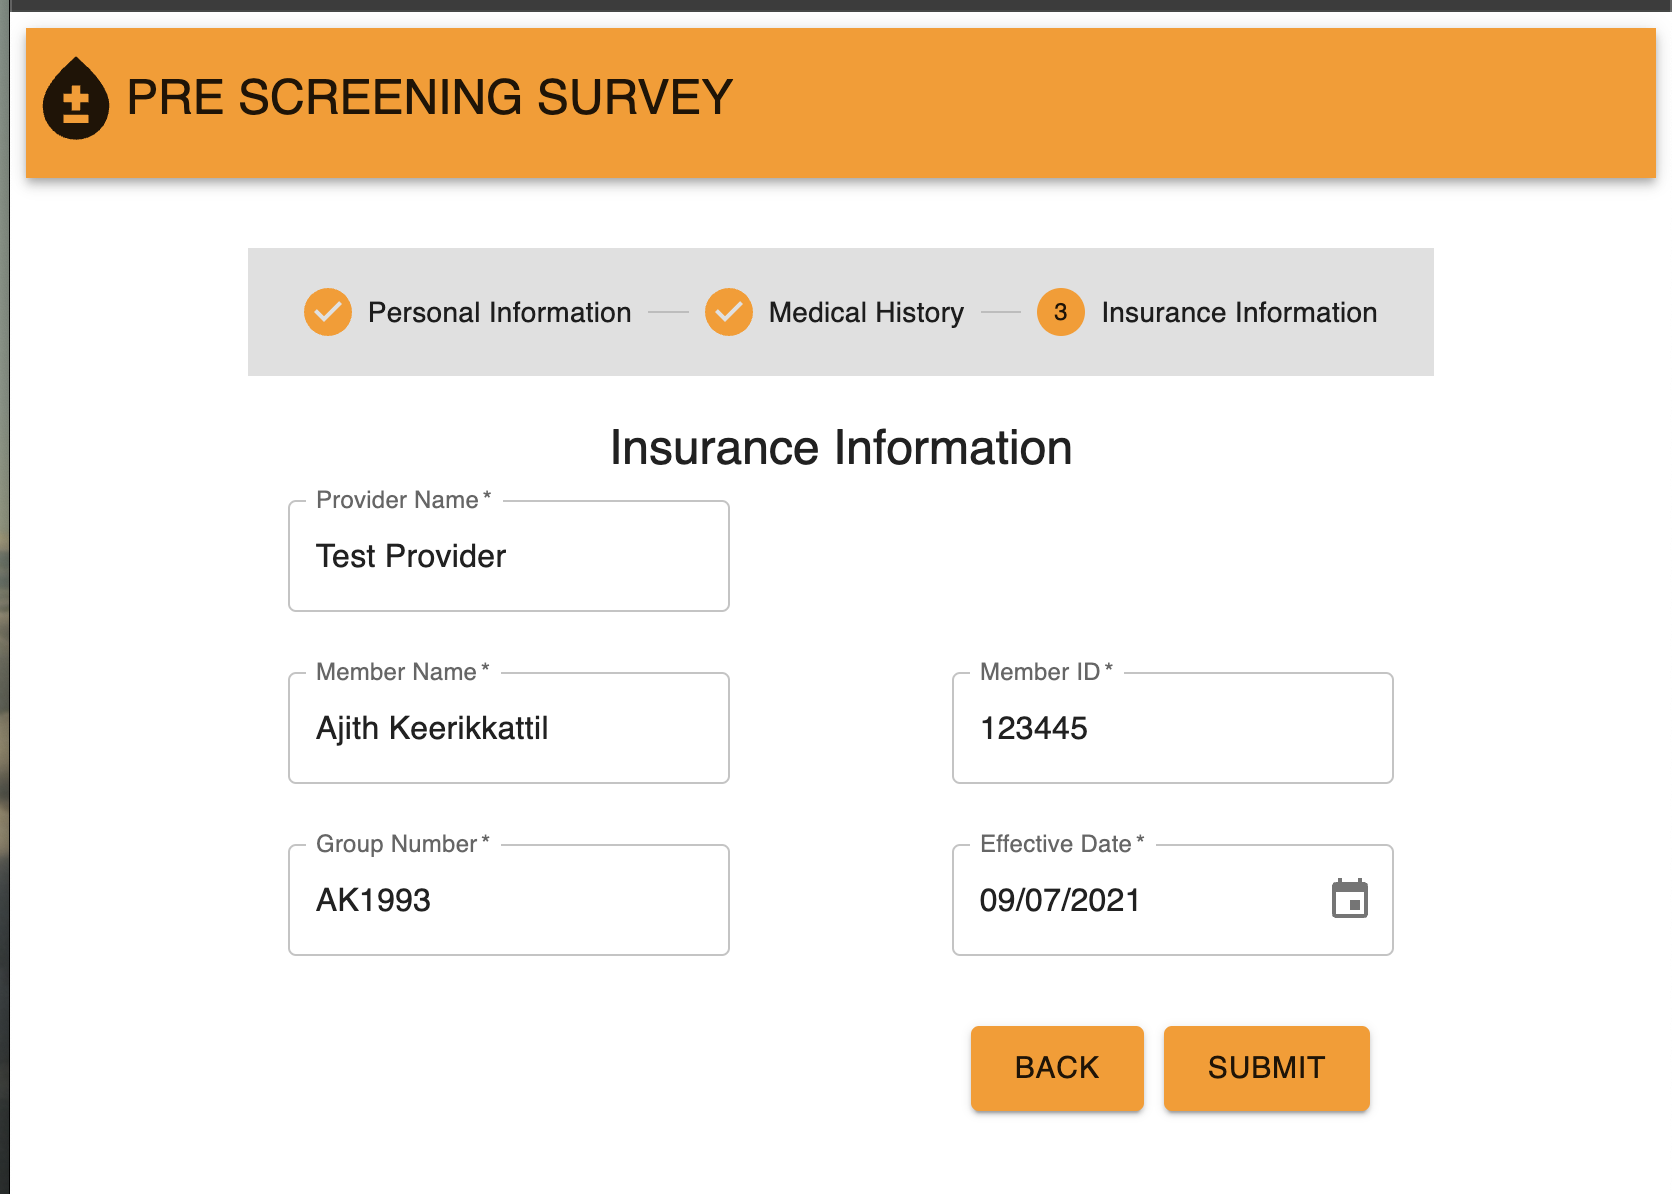
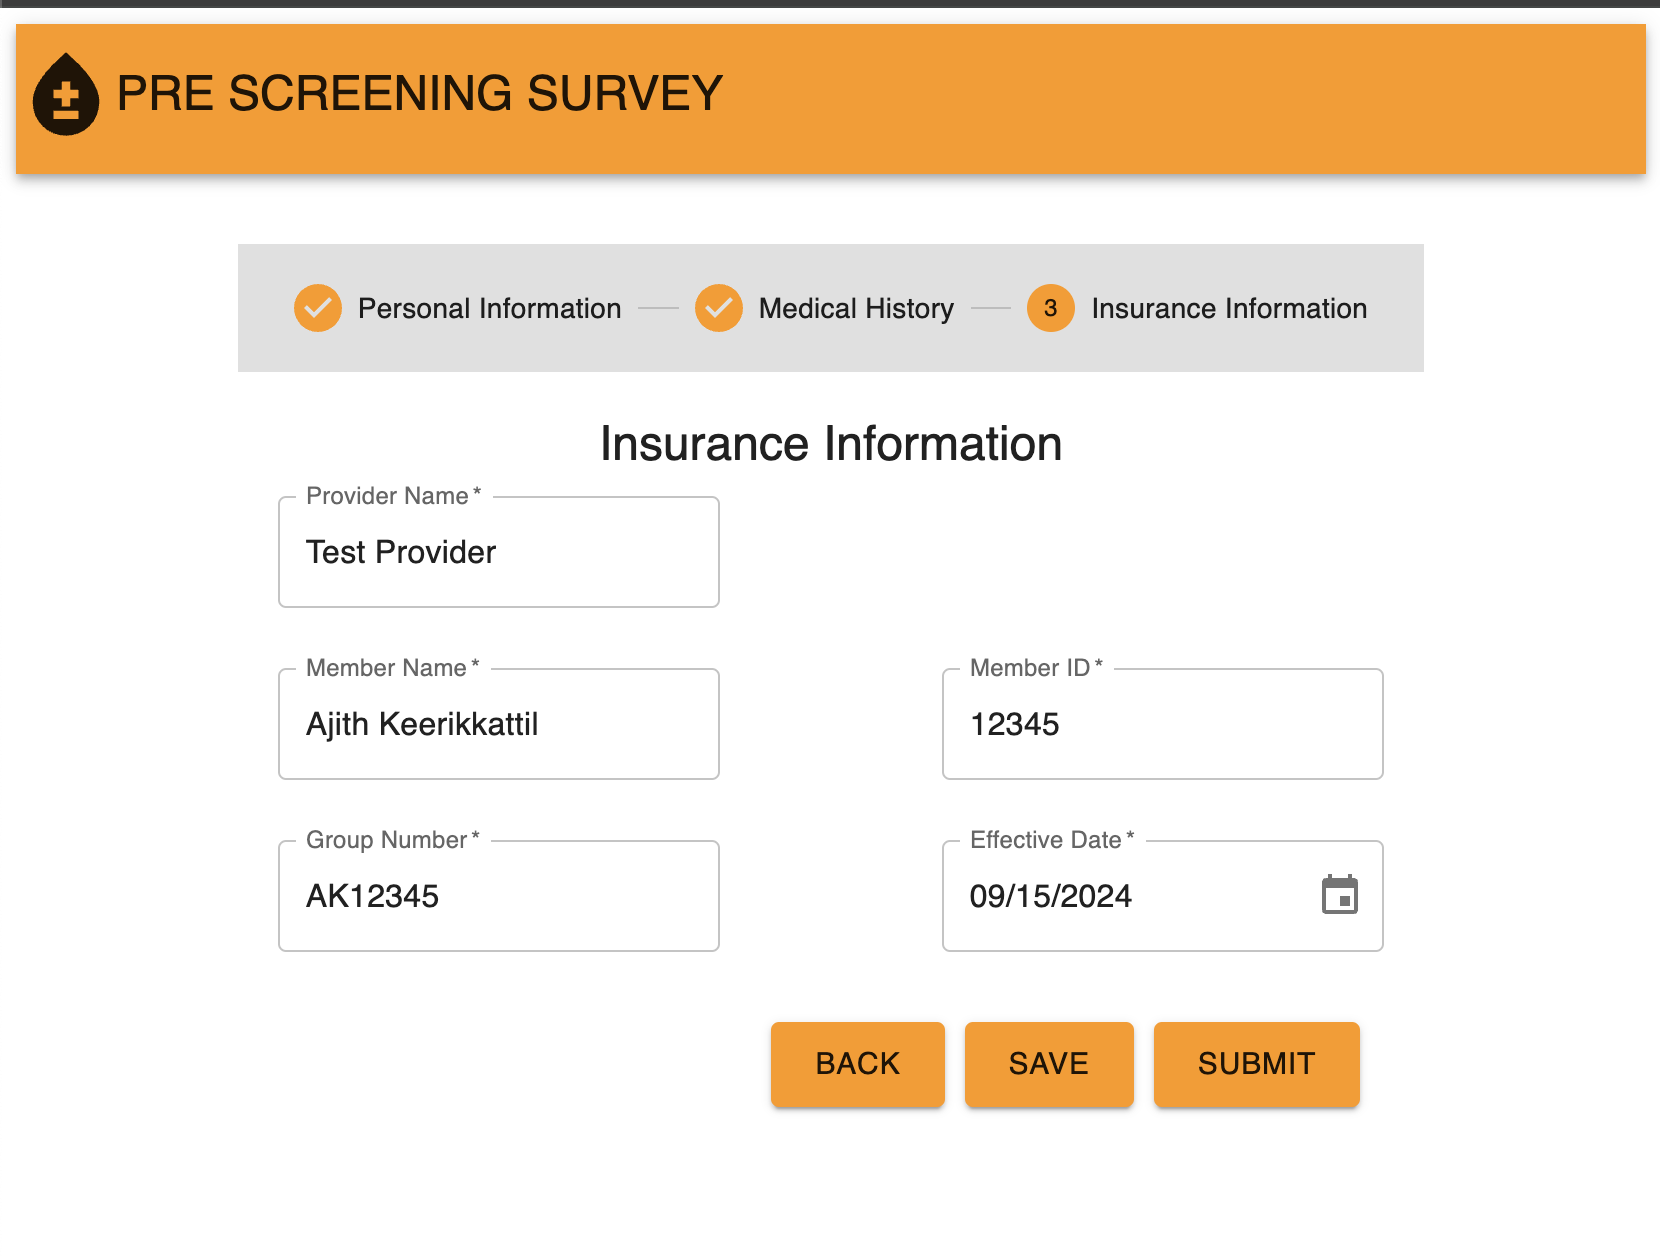
Refactoring and comments

diff --git a/src/components/surveySteps/InsuranceInformation.tsx b/src/components/surveySteps/InsuranceInformation.tsx
@@ -1,21 +1,24 @@
 import React from 'react';
 import { ReactJSXElement } from '@emotion/react/types/jsx-namespace';
-import { Box } from '@mui/material';
+
+import { Box, Button } from '@mui/material';
+
 import StepperNavButtons from '../common/StepperNavButtons';
 import Overlay from '../common/Overlay';
+
 import { useDispatch, useSelector } from 'react-redux';
 import { RootState } from '../store/StateStore';
-import ControlledMuiTextField from '../common/customFormFields/ControlledMuiTextField';
+import { addInsuranceInformation } from '../store/SurveySlice';
 
-/* Validation resolver library */
 import { yupResolver } from '@hookform/resolvers/yup';
 import * as Yup from 'yup';
 import { useForm } from 'react-hook-form';
 
 import ControlledMuiDatePicker from '../common/customFormFields/ControlledMuiDatePicker';
-import { InsuranceInformationType } from '../interfaces/insuranceInformationType';
+import ControlledMuiTextField from '../common/customFormFields/ControlledMuiTextField';
+
+import { InsuranceInformationType } from '../interfaces/formTypes';
 import { digitsOnly } from '../../refData/regex';
-import { addInsuranceInformation } from '../store/SurveySlice';
 
 /* CSS Styles */
 const styles = {
@@ -49,16 +52,21 @@ function InsuranceInformation({
    onBackButtonClick,
    onNextButtonClick,
 }: InsuranceInformationProps): ReactJSXElement {
+   /* Application state management */
    let insuranceInformation = useSelector(
       (state: RootState) => state?.surveySlice?.memberInsuranceInfo
    );
+
+   let surveyState = useSelector((state: RootState) => state?.surveySlice);
 
    let loading = useSelector(
       (state: RootState) => state?.surveySlice?.isLoading
    );
 
    let dispatch = useDispatch();
+   /* End Application state management */
 
+   /* Form management */
    const validationSchema: Yup.ObjectSchema<InsuranceInformationType> =
       Yup.object().shape({
          providerName: Yup.string().required('Provider Name is required'),
@@ -79,18 +87,28 @@ function InsuranceInformation({
       defaultValues: insuranceInformation,
       resolver: yupResolver(validationSchema),
    });
+   /* End Form management */
 
-   function submitSurvey() {
-      let formValue = getValues() as InsuranceInformationType;
-      dispatch(addInsuranceInformation(formValue));
+   /* Save user entered survey info Insurance Information to store */
+   function saveSurveyInformation() {
+      (function saveInsuranceInformation() {
+         let formValue = getValues() as InsuranceInformationType;
+         dispatch(addInsuranceInformation(formValue));
+      })();
    }
 
+   /* Save user entered survey info on back navigation to preserve data */
    function onBackButton() {
       (function saveInsuranceInformation() {
          let formValue = getValues() as InsuranceInformationType;
          dispatch(addInsuranceInformation(formValue));
          onBackButtonClick();
       })();
+   }
+
+   /* Submit the survey data to backend */
+   function onSubmitButtonClick() {
+      console.log(surveyState);
    }
 
    return (
@@ -152,8 +170,18 @@ function InsuranceInformation({
                maxSteps={3}
                disableNextButton={!isValid}
                onBackButtonClick={onBackButton}
-               onNextButtonClick={submitSurvey}
-            />
+               onNextButtonClick={saveSurveyInformation}
+            >
+               <Button
+                  sx={{ marginLeft: '10px' }}
+                  variant="contained"
+                  size={'large'}
+                  disabled={!isValid}
+                  onClick={() => onSubmitButtonClick()}
+               >
+                  Submit
+               </Button>
+            </StepperNavButtons>
          </Box>
       </>
    );

diff --git a/src/components/surveySteps/MedicalHistory.tsx b/src/components/surveySteps/MedicalHistory.tsx
@@ -1,18 +1,20 @@
-import React, { useEffect } from 'react';
+import React from 'react';
 import { ReactJSXElement } from '@emotion/react/types/jsx-namespace';
 import { Box } from '@mui/material';
+
 import StepperNavButtons from '../common/StepperNavButtons';
 import ControlledMuiRadioGroup from '../common/customFormFields/ControlledMuiRadioGroup';
-import { useForm } from 'react-hook-form';
-import { yupResolver } from '@hookform/resolvers/yup';
-import { medicalHistoryQuestions } from '../../refData/medicalHistoryRef';
-import { MedicalHistoryInfo } from '../interfaces/medicalHistoryType';
 
-import { addMedicalHistoryInformation } from '../store/SurveySlice';
+import { medicalHistoryQuestions } from '../../refData/medicalHistoryRef';
+import { MedicalHistoryInfo } from '../interfaces/formTypes';
+
 import { useDispatch, useSelector } from 'react-redux';
+import { addMedicalHistoryInformation } from '../store/SurveySlice';
+import { RootState } from '../store/StateStore';
 
 import * as Yup from 'yup';
-import { RootState } from '../store/StateStore';
+import { useForm } from 'react-hook-form';
+import { yupResolver } from '@hookform/resolvers/yup';
 
 /* CSS Styles */
 const styles = {
@@ -35,13 +37,14 @@ function MedicalHistory({
    onBackButtonClick,
    onNextButtonClick,
 }: MedicalHistoryProps): ReactJSXElement {
+   /* Application state management */
    let memberHistory = useSelector(
       (state: RootState) => state?.surveySlice?.memberHistory
    );
    let dispatch = useDispatch();
+   /* End Application state management */
 
-   useEffect(() => {}, []);
-
+   /* Form management */
    const validationSchema: Yup.ObjectSchema<MedicalHistoryInfo> =
       Yup.object().shape({
          BUN: Yup.string().required(),
@@ -51,7 +54,6 @@ function MedicalHistory({
          'Currently on Medication': Yup.string().required(),
       });
 
-   /* Uses React Form Hook to control the form */
    const {
       control,
       getValues,
@@ -61,7 +63,18 @@ function MedicalHistory({
       defaultValues: memberHistory,
       resolver: yupResolver(validationSchema),
    });
+   /* End Form management */
 
+   /* Save user entered medical history on back navigation to preserve data */
+   function onBackButton() {
+      (function saveInsuranceInformation() {
+         let formValue = getValues() as MedicalHistoryInfo;
+         dispatch(addMedicalHistoryInformation(formValue));
+         onBackButtonClick();
+      })();
+   }
+
+   /* Save user entered medical history to store */
    const saveAndContinue = () => {
       let formValues = getValues();
       dispatch(addMedicalHistoryInformation(formValues as MedicalHistoryInfo));
@@ -93,9 +106,9 @@ function MedicalHistory({
                stepIndex={activeStep}
                maxSteps={3}
                disableNextButton={!isValid}
-               onBackButtonClick={onBackButtonClick}
+               onBackButtonClick={onBackButton}
                onNextButtonClick={saveAndContinue}
-            />
+            ></StepperNavButtons>
          </Box>
       </>
    );

diff --git a/src/components/surveySteps/PersonalInformation.tsx b/src/components/surveySteps/PersonalInformation.tsx
@@ -1,14 +1,13 @@
-import React, { useEffect } from 'react';
+import React from 'react';
 import ControlledMuiTextField from '../common/customFormFields/ControlledMuiTextField';
 import { Box } from '@mui/material';
 
-/* Validation resolver library */
+import { useForm } from 'react-hook-form';
 import { yupResolver } from '@hookform/resolvers/yup';
 import * as Yup from 'yup';
-import { useForm } from 'react-hook-form';
 
 import ControlledMuiDatePicker from '../common/customFormFields/ControlledMuiDatePicker';
-import { PrimaryInfo } from '../interfaces/primaryInfoType';
+import { PrimaryInfo } from '../interfaces/formTypes';
 import ControlledMuiSelect from '../common/customFormFields/ControlledMuiSelect';
 import { stateList } from '../../refData/stateList';
 import { digitsOnly } from '../../refData/regex';
@@ -16,9 +15,7 @@ import StepperNavButtons from '../common/StepperNavButtons';
 
 import { useDispatch, useSelector } from 'react-redux';
 import { RootState } from '../store/StateStore';
-import { addPersonalInformation, setLoading } from '../store/SurveySlice';
-
-import Overlay from '../common/Overlay';
+import { addPersonalInformation } from '../store/SurveySlice';
 
 /* CSS Styles */
 const styles = {
@@ -55,15 +52,15 @@ function PersonalInformation({
    onBackButtonClick,
    onNextButtonClick,
 }: PrimaryInformationProps) {
+   /* Application state management */
    let memberInfo = useSelector(
       (state: RootState) => state?.surveySlice?.memberInfo
    );
 
    let dispatch = useDispatch();
+   /* End Application state management */
 
-   useEffect(() => {}, []);
-
-   /* Form field validation */
+   /* Form management */
    const validationSchema: Yup.ObjectSchema<PrimaryInfo> = Yup.object().shape({
       firstName: Yup.string().required('Firstname is required'),
       lastName: Yup.string().required('Lastname is required'),
@@ -77,7 +74,6 @@ function PersonalInformation({
          .max(5, 'ZipCode cannot exceed 5 characters'),
    });
 
-   /* Uses React Form Hook to control the form */
    const {
       control,
       getValues,
@@ -87,7 +83,9 @@ function PersonalInformation({
       defaultValues: memberInfo,
       resolver: yupResolver(validationSchema),
    });
+   /* End Form management */
 
+   /* Adds the current form values to state and then navigates to next step */
    const saveAndContinue = () => {
       let formValues = getValues();
       dispatch(addPersonalInformation(formValues as PrimaryInfo));
@@ -163,7 +161,7 @@ function PersonalInformation({
                disableNextButton={!isValid}
                onBackButtonClick={onBackButtonClick}
                onNextButtonClick={saveAndContinue}
-            />
+            ></StepperNavButtons>
          </Box>
       </>
    );

diff --git a/src/components/store/SurveySlice.tsx b/src/components/store/SurveySlice.tsx
@@ -1,9 +1,8 @@
 import { createSlice, PayloadAction } from '@reduxjs/toolkit';
 import { SurveySliceType } from '../interfaces/surveySliceType';
-import { PrimaryInfo } from '../interfaces/primaryInfoType';
-import { MedicalHistoryInfo } from '../interfaces/medicalHistoryType';
-import { InsuranceInformationType } from '../interfaces/insuranceInformationType';
+import { PrimaryInfo, MedicalHistoryInfo, InsuranceInformationType} from '../interfaces/formTypes';
 
+/* Initial state of the survey form */
 const initialState: SurveySliceType = {
    memberInfo: {
       firstName: '',
@@ -30,6 +29,9 @@ const initialState: SurveySliceType = {
    isLoading: false,
 };
 
+/**
+ * Configuration for the survey slice of the state store.
+ */
 const sliceConfig = {
    name: 'surveySlice',
    initialState,
@@ -58,8 +60,10 @@ const sliceConfig = {
    },
 };
 
+/* Create the slice */
 let surveySlice = createSlice(sliceConfig);
 
+/* Export the reducer and actions */
 export default surveySlice.reducer;
 
 export const {

diff --git a/src/components/common/StepperNavButtons.tsx b/src/components/common/StepperNavButtons.tsx
@@ -14,6 +14,7 @@ type StepperNavButtonProps = {
    onBackButtonClick: () => void;
    onNextButtonClick: () => void;
    disableNextButton?: boolean;
+   children?: React.ReactNode;
 };
 
 function StepperNavButtons({
@@ -22,6 +23,7 @@ function StepperNavButtons({
    onBackButtonClick,
    onNextButtonClick,
    disableNextButton = false,
+   children,
 }: StepperNavButtonProps) {
    return (
       <>
@@ -64,9 +66,11 @@ function StepperNavButtons({
                   disabled={disableNextButton}
                   onClick={() => onNextButtonClick()}
                >
-                  Submit
+                  Save
                </Button>
             ) : null}
+
+            {children}
          </Container>
       </>
    );

diff --git a/src/components/interfaces/formTypes.tsx b/src/components/interfaces/formTypes.tsx
@@ -1,0 +1,27 @@
+/* Type of the Primary Information form */
+export type PrimaryInfo = {
+   firstName: string;
+   lastName: string;
+   dob: Date | null;
+   streetAddress: string;
+   state: string;
+   zipCode: string;
+};
+
+/* Type of the Insurance Information form */
+export interface InsuranceInformationType {
+   providerName: string;
+   memberName: string;
+   memberId: string;
+   groupNumber: string;
+   effectiveDate: Date;
+}
+
+/* Type of the Medical History form */
+export type MedicalHistoryInfo = {
+   BUN: string;
+   'Blood Pressure': string;
+   'Blood Sugar': string;
+   Colestrol: string;
+   'Currently on Medication': string;
+};

diff --git a/src/components/interfaces/surveySliceType.tsx b/src/components/interfaces/surveySliceType.tsx
@@ -1,7 +1,6 @@
-import { MedicalHistoryInfo } from './medicalHistoryType';
-import { PrimaryInfo } from './primaryInfoType';
-import { InsuranceInformationType } from './insuranceInformationType';
+import { MedicalHistoryInfo, PrimaryInfo, InsuranceInformationType } from './formTypes';
 
+/* Type of the Survey slice data */
 export interface SurveySliceType {
    memberInfo: PrimaryInfo;
    memberHistory: MedicalHistoryInfo;

diff --git a/src/components/SurveyStepper.tsx b/src/components/SurveyStepper.tsx
@@ -48,7 +48,6 @@ function SurveyStepper() {
 
    return (
       <>
-         {/*Stepper Component*/}
          <Box sx={styles.surveyStepperBox}>
             <Stepper activeStep={activeStep}>
                {stepperLabels.map((stepLabel: string, index: number) => {

diff --git a/src/components/store/StateStore.tsx b/src/components/store/StateStore.tsx
@@ -1,6 +1,9 @@
 import { configureStore } from '@reduxjs/toolkit';
 import surveySlice from './SurveySlice';
 
+/**
+ * The state store
+ */
 export const stateStore = configureStore({
    reducer: {
       surveySlice: surveySlice,
